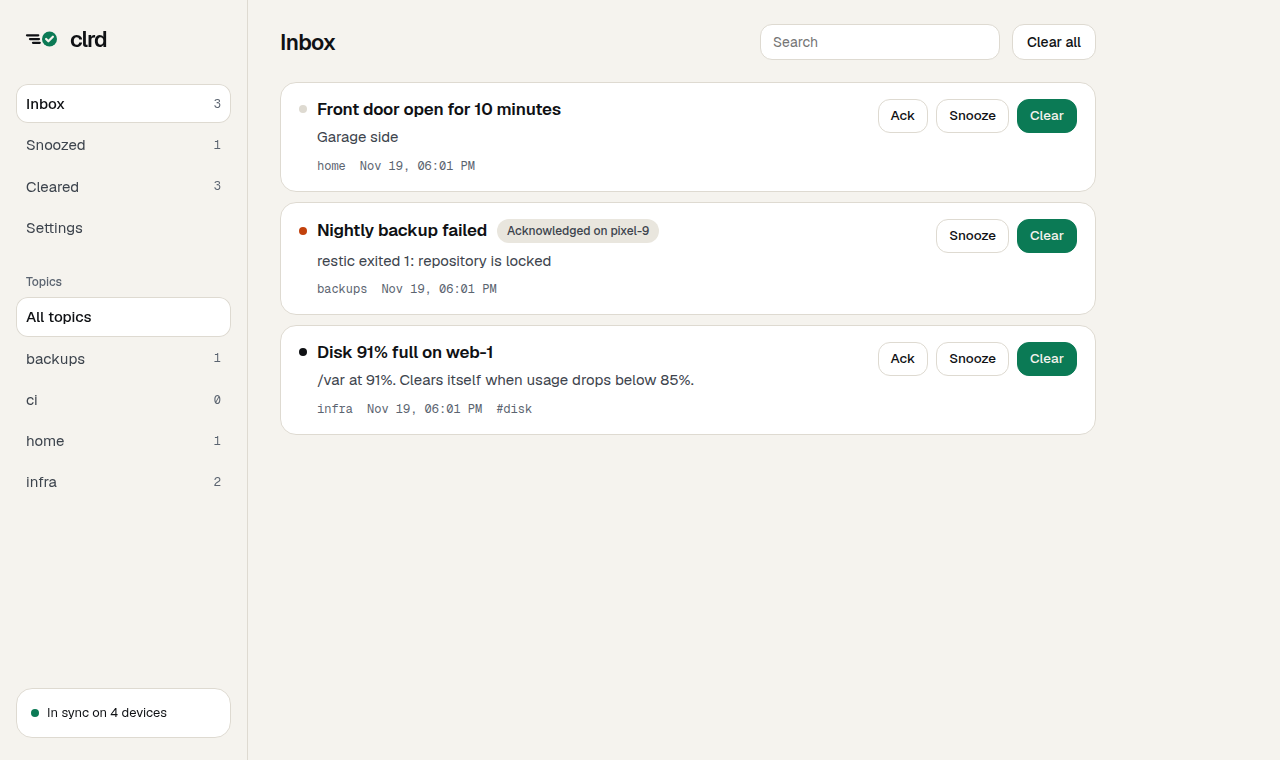
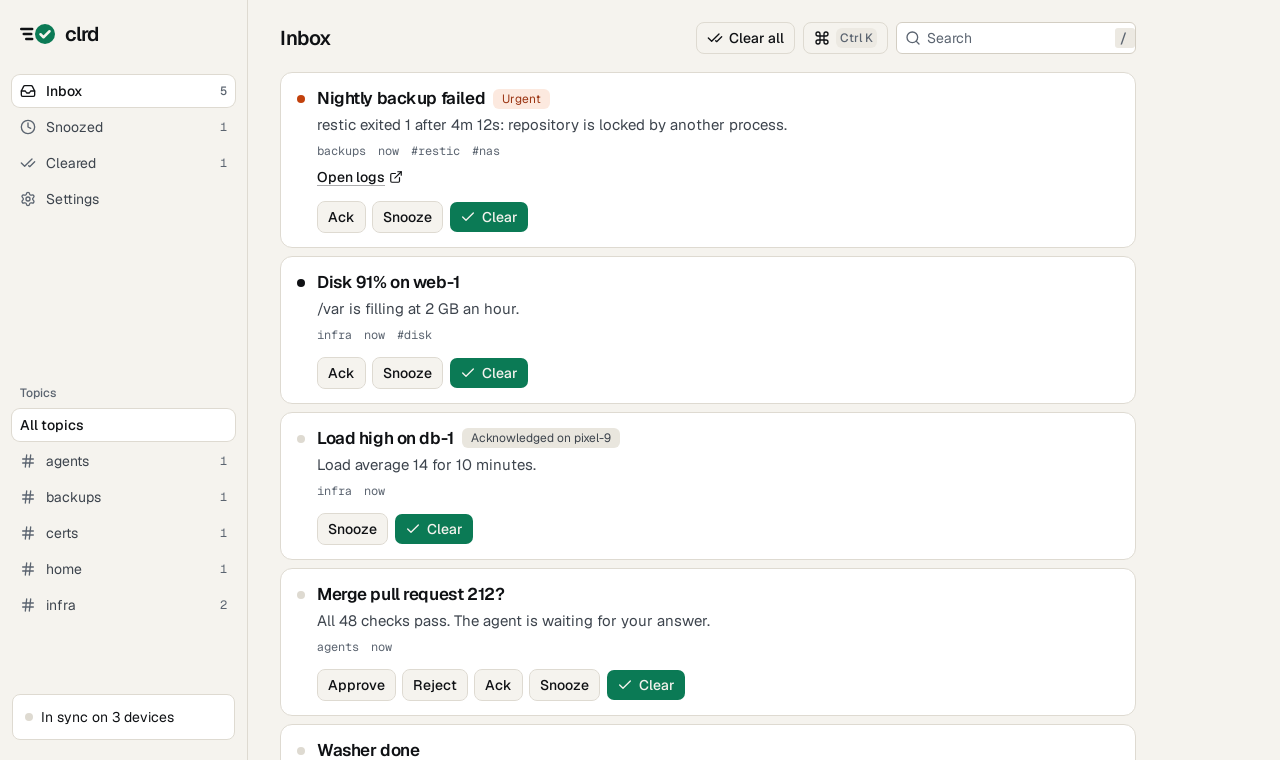
Repo: README screenshots in the new design (#122)
The inbox shots on the repo page still showed the old look. Retaken from
the real binary with clean sample data, light desktop and dark phone. The
web inbox feature line now mentions the Ctrl+K command palette.

diff --git a/README.md b/README.md
@@ -19,7 +19,7 @@ web) and it clears on all the others. When the problem fixes itself, the sender 
 everywhere without anyone touching it.
 
 <p align="center">
-  <img src=".github/images/inbox-light.png" alt="The clrd web inbox with three open notifications, one acknowledged on a phone" width="760">
+  <img src=".github/images/inbox-light.png" alt="The clrd web inbox: an urgent backup failure, a disk warning, an alert acknowledged on a phone and an agent asking to merge a pull request" width="760">
   <img src=".github/images/inbox-phone-dark.png" alt="The same inbox on a phone in dark mode" width="200">
 </p>
 
@@ -54,7 +54,7 @@ offline catches up the moment it reconnects.
   notification. The server stores and serves them and the Android app shows
   them; the web inbox does not show them yet.
 - **Web inbox built in.** Server-rendered, live over WebSocket, the main actions
-  work without JavaScript, dark mode, phone width.
+  work without JavaScript, a Ctrl+K command palette, dark mode, phone width.
 - **Android app.** Kotlin, no Google Play Services, so it runs on GrapheneOS
   and LineageOS. Reply and link buttons in the tray, Share and Copy on each
   notification, Markdown formatting and tappable links.
